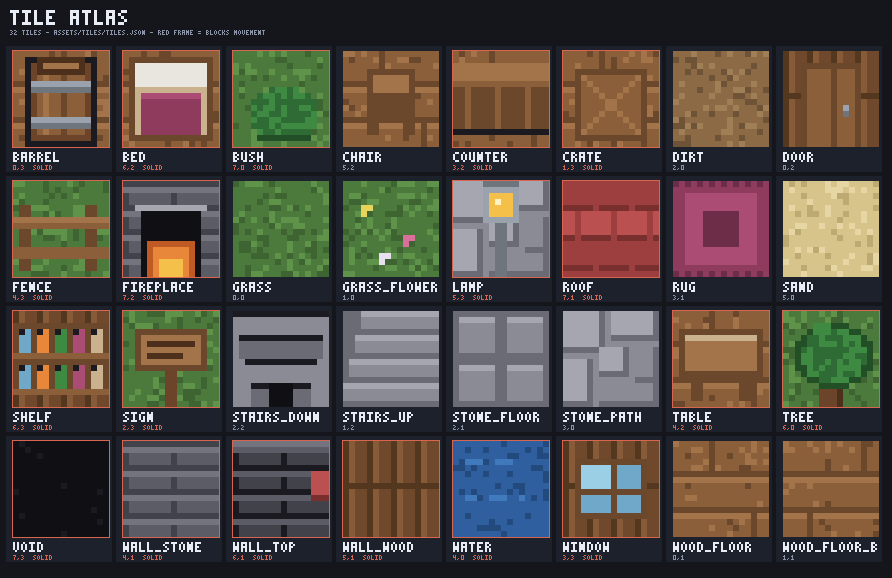
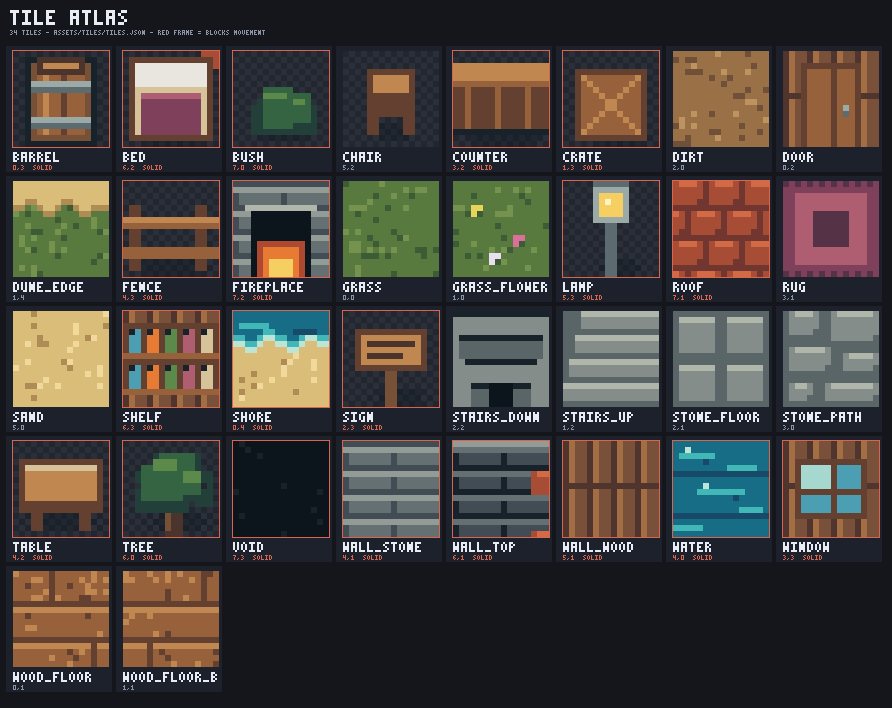
Refresh Port Azure pixel art
Reworks the deterministic art pipeline around a maritime palette, layered transparent props and role-specific actors. Adds shadows to world objects plus shoreline and dune transition tiles so the beach no longer renders as razor-straight color bands.

Regenerates the shipped atlases, baked tileset and committed art previews. All 31 headless Godot tests pass.

diff --git a/tools/gen_art.py b/tools/gen_art.py
@@ -40,13 +40,25 @@ def speckle(c, ox, oy, base, hi, lo, density=0.18, salt=0):
                 c.set(ox + x, oy + y, hi)
 
 
+def cast_shadow(c, ox, oy, cx, cy, rx, ry):
+    """Dithered ellipse for props that sit over a separate ground layer."""
+    for y in range(max(0, cy - ry), min(TS, cy + ry + 1)):
+        for x in range(max(0, cx - rx), min(TS, cx + rx + 1)):
+            dx = (x - cx) / float(rx)
+            dy = (y - cy) / float(ry)
+            d = dx * dx + dy * dy
+            if d <= 0.62:
+                c.set(ox + x, oy + y, P["shadow"])
+            elif d <= 1.0 and (x + y) % 2 == 0:
+                c.set(ox + x, oy + y, P["shadow_soft"])
+
+
 def t_grass(c, ox, oy):
-    speckle(c, ox, oy, P["grass"], P["grass_hi"], P["grass_lo"], 0.22, 1)
-    for y in range(TS):
-        for x in range(TS):
-            if noise(ox + x, oy + y, 7) > 0.94:
-                c.set(ox + x, oy + y, P["grass_hi"])
-                c.set(ox + x, oy + y + 1, P["grass_lo"])
+    speckle(c, ox, oy, P["grass"], P["grass_hi"], P["grass_lo"], 0.10, 1)
+    for x, y in ((2, 5), (11, 2), (7, 12)):
+        c.set(ox + x, oy + y, P["grass_lo"])
+        c.set(ox + x - 1, oy + y - 1, P["grass_hi"])
+        c.set(ox + x + 1, oy + y - 1, P["grass_hi"])
 
 
 def t_grass_flower(c, ox, oy):
@@ -59,62 +71,89 @@ def t_grass_flower(c, ox, oy):
 
 
 def t_dirt(c, ox, oy):
-    speckle(c, ox, oy, P["dirt"], P["dirt_hi"], P["dirt_lo"], 0.3, 2)
+    speckle(c, ox, oy, P["dirt"], P["dirt_hi"], P["dirt_lo"], 0.14, 2)
+    for x, y in ((3, 3), (10, 7), (6, 13)):
+        c.hline(ox + x, oy + y, 2, P["dirt_lo"])
 
 
 def t_stone_path(c, ox, oy):
-    c.rect(ox, oy, TS, TS, P["stone"])
-    # irregular cobbles
-    for (x, y, w, h) in ((0, 0, 7, 7), (8, 0, 8, 5), (0, 8, 5, 8), (6, 6, 5, 5),
-                         (12, 6, 4, 6), (6, 12, 10, 4)):
-        c.rect(ox + x, oy + y, w, h, P["stone_hi"] if (x + y) % 4 == 0 else P["stone"])
-        c.hline(ox + x, oy + y + h - 1, w, P["stone_lo"])
-        c.vline(ox + x + w - 1, oy + y, h, P["stone_lo"])
+    c.rect(ox, oy, TS, TS, P["stone_lo"])
+    # Rounded, salt-worn setts with recessed dark mortar.
+    for (x, y, w, h) in ((0, 0, 6, 5), (7, 0, 9, 6), (0, 6, 8, 5),
+                         (9, 7, 7, 4), (0, 12, 5, 4), (6, 12, 10, 4)):
+        c.rect(ox + x + 1, oy + y, w - 1, h - 1, P["stone"])
+        c.hline(ox + x + 2, oy + y, max(1, w - 3), P["stone_hi"])
+        c.set(ox + x + w - 1, oy + y + h - 2, P["stone_lo"])
 
 
 def t_water(c, ox, oy):
     c.rect(ox, oy, TS, TS, P["water"])
-    for y in range(TS):
-        for x in range(TS):
-            if noise(ox + x, oy + y, 3) > 0.86:
-                c.set(ox + x, oy + y, P["water_lo"])
-    for y in (3, 9):
-        for x in range(2, 12):
-            if (x + y) % 5 < 3:
-                c.set(ox + x, oy + y, P["water_hi"])
+    c.hline(ox, oy + 5, TS, P["water_lo"])
+    c.hline(ox, oy + 12, TS, P["water_lo"])
+    for x, y, w in ((1, 2, 6), (9, 4, 5), (4, 8, 8), (0, 14, 5), (11, 11, 4)):
+        c.hline(ox + x, oy + y, w, P["water_hi"])
+        if w >= 6:
+            c.set(ox + x + 1, oy + y - 1, P["foam"])
+            c.set(ox + x + w - 2, oy + y + 1, P["water_lo"])
 
 
 def t_sand(c, ox, oy):
-    speckle(c, ox, oy, P["sand"], P["sand_hi"], P["sand_lo"], 0.24, 4)
+    speckle(c, ox, oy, P["sand"], P["sand_hi"], P["sand_lo"], 0.10, 4)
+    for x, y in ((3, 12), (12, 4), (8, 8)):
+        c.set(ox + x, oy + y, P["sand_lo"])
+        c.set(ox + x + 1, oy + y, P["sand_hi"])
+
+
+def t_shore(c, ox, oy):
+    """Horizontal sea-to-sand edge used along Port Azure's north beach."""
+    t_sand(c, ox, oy)
+    edge = (6, 6, 7, 7, 6, 5, 5, 6, 6, 7, 7, 6, 5, 5, 6, 6)
+    for x, depth in enumerate(edge):
+        for y in range(depth):
+            c.set(ox + x, oy + y, P["water"])
+        c.set(ox + x, oy + depth - 2, P["water_hi"])
+        c.set(ox + x, oy + depth - 1, P["foam"])
+    c.hline(ox + 1, oy + 2, 5, P["water_hi"])
+    c.hline(ox + 10, oy + 3, 4, P["water_lo"])
+
+
+def t_dune_edge(c, ox, oy):
+    """Horizontal sand-to-grass edge with an irregular windblown fringe."""
+    t_grass(c, ox, oy)
+    edge = (5, 5, 4, 4, 5, 6, 6, 5, 4, 4, 5, 6, 6, 5, 5, 5)
+    for x, depth in enumerate(edge):
+        for y in range(depth):
+            c.set(ox + x, oy + y, P["sand"])
+        c.set(ox + x, oy + depth - 1, P["sand_lo"])
+    for x, y in ((2, 7), (7, 8), (13, 7)):
+        c.set(ox + x, oy + y, P["grass_hi"])
+        c.set(ox + x + 1, oy + y + 1, P["grass_lo"])
 
 
 def t_tree(c, ox, oy):
-    t_grass(c, ox, oy)
-    c.rect(ox + 6, oy + 10, 4, 6, P["bark"])
-    c.vline(ox + 9, oy + 10, 6, P["bark_lo"])
-    for y in range(TS):
-        for x in range(TS):
-            dx, dy = x - 8, y - 7
-            d = dx * dx + dy * dy * 1.4
-            if d < 42:
-                col = P["leaf"]
-                if d > 30:
-                    col = P["leaf_lo"]
-                elif noise(ox + x, oy + y, 5) > 0.6:
-                    col = P["leaf_hi"]
-                c.set(ox + x, oy + y, col)
-    c.rect(ox + 5, oy + 2, 3, 2, P["leaf_hi"])
+    cast_shadow(c, ox, oy, 9, 13, 6, 2)
+    c.rect(ox + 7, oy + 9, 3, 7, P["bark_lo"])
+    c.vline(ox + 7, oy + 10, 5, P["bark"])
+    # Wind-shaped coastal crown: dark silhouette, mid clumps, sunlit crown.
+    for x, y, w, h in ((2, 5, 9, 7), (5, 2, 8, 8), (9, 5, 6, 6)):
+        c.rect(ox + x, oy + y, w, h, P["leaf_lo"])
+    for x, y, w, h in ((3, 4, 7, 6), (6, 2, 6, 6), (9, 5, 4, 4)):
+        c.rect(ox + x, oy + y, w, h, P["leaf"])
+    c.rect(ox + 5, oy + 3, 4, 2, P["leaf_hi"])
+    c.rect(ox + 10, oy + 5, 3, 2, P["leaf_hi"])
+    for x, y in ((2, 7), (4, 3), (8, 1), (13, 7), (11, 10)):
+        c.set(ox + x, oy + y, CLEAR)
 
 
 def t_bush(c, ox, oy):
-    t_grass(c, ox, oy)
-    for y in range(TS):
-        for x in range(TS):
-            dx, dy = x - 8, y - 10
-            if dx * dx + dy * dy * 1.6 < 32:
-                col = P["leaf"] if noise(ox + x, oy + y, 6) > 0.45 else P["leaf_hi"]
-                c.set(ox + x, oy + y, col)
-    c.hline(ox + 4, oy + 14, 9, P["leaf_lo"])
+    cast_shadow(c, ox, oy, 8, 13, 6, 2)
+    c.rect(ox + 3, oy + 8, 11, 6, P["leaf_lo"])
+    c.rect(ox + 5, oy + 6, 5, 7, P["leaf"])
+    c.rect(ox + 9, oy + 7, 4, 5, P["leaf"])
+    c.hline(ox + 5, oy + 7, 4, P["leaf_hi"])
+    c.hline(ox + 10, oy + 8, 2, P["leaf_hi"])
+    c.set(ox + 3, oy + 8, CLEAR)
+    c.set(ox + 13, oy + 8, CLEAR)
 
 
 def _planks(c, ox, oy, base, hi, lo, offset=0):
@@ -189,12 +228,13 @@ def t_wall_top(c, ox, oy):
 
 
 def t_roof(c, ox, oy):
-    c.rect(ox, oy, TS, TS, P["roof"])
-    for row, y in enumerate((0, 5, 10)):
+    c.rect(ox, oy, TS, TS, P["roof_lo"])
+    for row, y in enumerate((0, 5, 10, 15)):
         off = 0 if row % 2 == 0 else 3
         for x in range(-off, TS, 6):
-            c.rect(ox + x, oy + y, 5, 4, P["roof_hi"] if row % 2 else P["roof"])
-            c.hline(ox + x, oy + y + 4, 5, P["roof_lo"])
+            c.rect(ox + x, oy + y, 5, 4, P["roof"])
+            c.hline(ox + x + 1, oy + y, 3, P["roof_hi"])
+            c.set(ox + x + 4, oy + y + 3, P["roof_lo"])
 
 
 def t_door(c, ox, oy):
@@ -223,7 +263,7 @@ def t_stairs_down(c, ox, oy):
 
 
 def t_counter(c, ox, oy):
-    t_wood_floor(c, ox, oy)
+    cast_shadow(c, ox, oy, 8, 14, 7, 2)
     c.rect(ox, oy + 2, TS, 12, P["wood_lo"])
     c.rect(ox, oy + 2, TS, 3, P["wood_hi"])
     c.hline(ox, oy + 5, TS, P["wood"])
@@ -233,7 +273,7 @@ def t_counter(c, ox, oy):
 
 
 def t_table(c, ox, oy):
-    t_wood_floor(c, ox, oy)
+    cast_shadow(c, ox, oy, 8, 13, 7, 2)
     c.rect(ox + 1, oy + 3, 14, 9, P["wood_lo"])
     c.rect(ox + 2, oy + 4, 12, 6, P["wood_hi"])
     c.hline(ox + 2, oy + 4, 12, P["cloth"])
@@ -242,7 +282,7 @@ def t_table(c, ox, oy):
 
 
 def t_chair(c, ox, oy):
-    t_wood_floor(c, ox, oy)
+    cast_shadow(c, ox, oy, 8, 13, 4, 2)
     c.rect(ox + 4, oy + 3, 8, 8, P["wood_lo"])
     c.rect(ox + 5, oy + 4, 6, 3, P["wood_hi"])
     c.rect(ox + 4, oy + 11, 2, 3, P["wood_lo"])
@@ -250,7 +290,7 @@ def t_chair(c, ox, oy):
 
 
 def t_bed(c, ox, oy):
-    t_wood_floor(c, ox, oy)
+    cast_shadow(c, ox, oy, 8, 14, 7, 2)
     c.rect(ox + 1, oy + 1, 14, 14, P["wood_lo"])
     c.rect(ox + 2, oy + 2, 12, 12, P["cloth"])
     c.rect(ox + 2, oy + 2, 12, 4, rgb("e8e6de"))
@@ -268,7 +308,7 @@ def t_fireplace(c, ox, oy):
 
 
 def t_barrel(c, ox, oy):
-    t_wood_floor(c, ox, oy)
+    cast_shadow(c, ox, oy, 9, 14, 6, 2)
     # dark rim first so the barrel separates from a wooden floor behind it
     c.rect(ox + 2, oy + 1, 12, 15, P["dark"])
     c.rect(ox + 3, oy + 2, 10, 13, P["bark"])
@@ -284,7 +324,7 @@ def t_barrel(c, ox, oy):
 
 
 def t_crate(c, ox, oy):
-    t_wood_floor(c, ox, oy)
+    cast_shadow(c, ox, oy, 9, 14, 6, 2)
     c.rect(ox + 2, oy + 3, 12, 12, P["wood_lo"])
     c.rect(ox + 3, oy + 4, 10, 10, P["wood"])
     for i in range(10):
@@ -293,7 +333,7 @@ def t_crate(c, ox, oy):
 
 
 def t_sign(c, ox, oy):
-    t_grass(c, ox, oy)
+    cast_shadow(c, ox, oy, 9, 14, 5, 2)
     c.rect(ox + 7, oy + 8, 2, 8, P["bark"])
     c.rect(ox + 2, oy + 3, 12, 7, P["wood_lo"])
     c.rect(ox + 3, oy + 4, 10, 5, P["wood_hi"])
@@ -311,7 +351,7 @@ def t_window(c, ox, oy):
 
 
 def t_fence(c, ox, oy):
-    t_grass(c, ox, oy)
+    cast_shadow(c, ox, oy, 8, 14, 7, 2)
     c.rect(ox + 1, oy + 4, 2, 11, P["wood_lo"])
     c.rect(ox + 12, oy + 4, 2, 11, P["wood_lo"])
     c.rect(ox, oy + 6, TS, 2, P["wood"])
@@ -320,7 +360,7 @@ def t_fence(c, ox, oy):
 
 
 def t_lamp(c, ox, oy):
-    t_stone_path(c, ox, oy)
+    cast_shadow(c, ox, oy, 9, 14, 4, 2)
     c.rect(ox + 7, oy + 6, 2, 10, P["metal_lo"])
     c.rect(ox + 5, oy + 1, 6, 6, P["metal"])
     c.rect(ox + 6, oy + 2, 4, 4, P["fire_hi"])
@@ -350,6 +390,7 @@ def t_void(c, ox, oy):
 PAINTERS = {
     "grass": t_grass, "grass_flower": t_grass_flower, "dirt": t_dirt,
     "stone_path": t_stone_path, "water": t_water, "sand": t_sand,
+    "shore": t_shore, "dune_edge": t_dune_edge,
     "tree": t_tree, "bush": t_bush,
     "wood_floor": t_wood_floor, "wood_floor_b": t_wood_floor_b,
     "stone_floor": t_stone_floor, "rug": t_rug, "wall_stone": t_wall_stone,
@@ -386,16 +427,16 @@ def build_terrain():
 FRAME_W, FRAME_H = 16, 24
 
 ACTORS = [
-    # name,        skin,     hair,     shirt,    pants
-    ("player",     "e0ac7e", "6b4a2a", "3f6fa8", "35405c"),
-    ("bartender",  "d69a6b", "8a3f2a", "b8b4a8", "5a4433"),
-    ("harbormaster", "c98d5f", "e0dcd2", "2f5f4a", "3a3a44"),
-    ("villager",   "eabb8e", "4a3a2c", "8e6fa8", "4a4030"),
+    # name,          skin,     hair,     shirt,    pants,    accent
+    ("player",       "e2ad7f", "50382d", "356f88", "2f4056", "c76b42"),
+    ("bartender",    "d89b6b", "7b3d2d", "8b5a3c", "4d4038", "e0c99b"),
+    ("harbormaster", "ca8f62", "ded8c8", "365f50", "333f4a", "d2a84b"),
+    ("villager",     "e8b78d", "49342e", "7d557c", "453d42", "4f8d82"),
 ]
 
 
-def draw_actor(c, ox, oy, dir_idx, frame, skin, hair, shirt, pants):
-    S, H, SH, PA = rgb(skin), rgb(hair), rgb(shirt), rgb(pants)
+def draw_actor(c, ox, oy, role, dir_idx, frame, skin, hair, shirt, pants, accent):
+    S, H, SH, PA, AC = rgb(skin), rgb(hair), rgb(shirt), rgb(pants), rgb(accent)
     HD = tuple(max(0, v - 30) for v in H[:3]) + (255,)
     SHD = tuple(max(0, v - 35) for v in SH[:3]) + (255,)
     OUT = P["dark"]
@@ -451,15 +492,38 @@ def draw_actor(c, ox, oy, dir_idx, frame, skin, hair, shirt, pants):
             c.set(ox + 11, oy + 9, tuple(max(0, v - 40) for v in S[:3]) + (255,))
             c.vline(ox + 3, oy + 3, 5, HD)
 
+    # Occupation-specific shapes make NPCs readable before dialogue opens.
+    if role == "player":
+        c.hline(ox + 5, oy + 10, 6, AC)  # rust scarf
+        if dir_idx in (0, 2):
+            c.vline(ox + 10, oy + 11, 5, AC)  # satchel strap
+        elif dir_idx == 1:
+            c.vline(ox + 5, oy + 11, 5, AC)
+        c.set(ox + 11, oy + 16, AC)
+    elif role == "bartender":
+        c.hline(ox + 5, oy + 10, 6, AC)
+        c.rect(ox + 6, oy + 11, 4, 6, AC)  # pale apron
+        c.vline(ox + 9, oy + 12, 5, P["cloth"])
+    elif role == "harbormaster":
+        c.hline(ox + 4, oy + 2, 8, PA)  # square navy watch cap
+        c.hline(ox + 5, oy + 1, 6, PA)
+        if dir_idx != 3:
+            c.hline(ox + 5, oy + 9, 6, H)  # white beard
+            c.hline(ox + 6, oy + 10, 4, H)
+        c.set(ox + 10, oy + 12, AC)  # brass badge
+    elif role == "villager":
+        c.rect(ox + 11, oy + 3, 2, 3, AC)  # sea-green hair ribbon
+        c.hline(ox + 4, oy + 15, 8, AC)
+
 
 def build_actors():
     rows = len(ACTORS) * 4
     c = Canvas(4 * FRAME_W, rows * FRAME_H)
-    for a, (name, skin, hair, shirt, pants) in enumerate(ACTORS):
+    for a, (name, skin, hair, shirt, pants, accent) in enumerate(ACTORS):
         for d in range(4):
             for f in range(4):
                 draw_actor(c, f * FRAME_W, (a * 4 + d) * FRAME_H,
-                           d, f, skin, hair, shirt, pants)
+                           name, d, f, skin, hair, shirt, pants, accent)
     c.save(os.path.join(ROOT, "assets/sprites/actors.png"))
     manifest = {
         "frame_size": [FRAME_W, FRAME_H],

diff --git a/tools/pixel.py b/tools/pixel.py
@@ -34,24 +34,27 @@ def noise(x, y, salt=0):
 # --------------------------------------------------------------------------
 
 P = {
-    "grass":     rgb("4c7a3c"), "grass_hi": rgb("5f9349"), "grass_lo": rgb("3d6431"),
-    "dirt":      rgb("8b6a45"), "dirt_hi":  rgb("a07e56"), "dirt_lo":  rgb("6f5336"),
-    "stone":     rgb("8b8b95"), "stone_hi": rgb("a6a6b0"), "stone_lo": rgb("6b6b75"),
-    "water":     rgb("2f5f9e"), "water_hi": rgb("4179bd"), "water_lo": rgb("234a7d"),
-    "sand":      rgb("d6c48b"), "sand_hi":  rgb("e6d6a3"), "sand_lo":  rgb("bda972"),
-    "leaf":      rgb("2f6b34"), "leaf_hi":  rgb("3f8a43"), "leaf_lo":  rgb("224f26"),
-    "bark":      rgb("6b4429"), "bark_lo":  rgb("4d301c"),
-    "wood":      rgb("8a5f3a"), "wood_hi":  rgb("a3744a"), "wood_lo":  rgb("6b482b"),
-    "wallw":     rgb("70492d"), "wallw_hi": rgb("875a38"), "wallw_lo": rgb("54371f"),
-    "walls":     rgb("5c5c66"), "walls_hi": rgb("74747f"), "walls_lo": rgb("42424b"),
-    "roof":      rgb("9e3f3f"), "roof_hi":  rgb("bb5050"), "roof_lo":  rgb("7a2f2f"),
-    "rug":       rgb("8e3b5e"), "rug_hi":   rgb("ab4c74"), "rug_lo":   rgb("6d2c48"),
-    "cloth":     rgb("c9b28d"),
-    "metal":     rgb("9aa3ad"), "metal_lo": rgb("6e757d"),
-    "fire":      rgb("e8863a"), "fire_hi":  rgb("f5c04a"), "fire_lo":  rgb("bf5a24"),
-    "glass":     rgb("6fa8c9"), "glass_hi": rgb("9bcfe6"),
-    "dark":      rgb("1a1a20"), "black": rgb("101014"),
-    "shadow":    (0, 0, 0, 70),
+    # Salt-air greens and sea-glass blues keep Port Azure coastal rather than
+    # generic fantasy. Values stay separated enough to read at 16x16.
+    "grass":     rgb("587a3e"), "grass_hi": rgb("75934f"), "grass_lo": rgb("3d5c35"),
+    "dirt":      rgb("9a7147"), "dirt_hi":  rgb("bd9360"), "dirt_lo":  rgb("705039"),
+    "stone":     rgb("858d8b"), "stone_hi": rgb("b1b6aa"), "stone_lo": rgb("596567"),
+    "water":     rgb("176c86"), "water_hi": rgb("42b7b7"), "water_lo": rgb("174969"),
+    "foam":      rgb("bde4d5"),
+    "sand":      rgb("d9bd79"), "sand_hi":  rgb("f0d99b"), "sand_lo": rgb("b08c55"),
+    "leaf":      rgb("356442"), "leaf_hi":  rgb("5c8a4a"), "leaf_lo": rgb("233f39"),
+    "bark":      rgb("765037"), "bark_lo":  rgb("4b342c"),
+    "wood":      rgb("97613b"), "wood_hi":  rgb("c18750"), "wood_lo": rgb("63402f"),
+    "wallw":     rgb("795039"), "wallw_hi": rgb("a46e45"), "wallw_lo": rgb("4f352d"),
+    "walls":     rgb("657073"), "walls_hi": rgb("929b96"), "walls_lo": rgb("414c55"),
+    "roof":      rgb("a84d35"), "roof_hi":  rgb("d16a45"), "roof_lo": rgb("71362f"),
+    "rug":       rgb("7f405b"), "rug_hi":   rgb("af5d70"), "rug_lo": rgb("563247"),
+    "cloth":     rgb("d7c39a"),
+    "metal":     rgb("9ba9a7"), "metal_lo": rgb("5c6b70"),
+    "fire":      rgb("e77b34"), "fire_hi":  rgb("f6cf62"), "fire_lo": rgb("ad4930"),
+    "glass":     rgb("4c9eb2"), "glass_hi": rgb("a5d8ce"),
+    "dark":      rgb("17222b"), "black": rgb("0d151c"),
+    "shadow":    (12, 22, 28, 78), "shadow_soft": (12, 22, 28, 42),
 }
 
 
